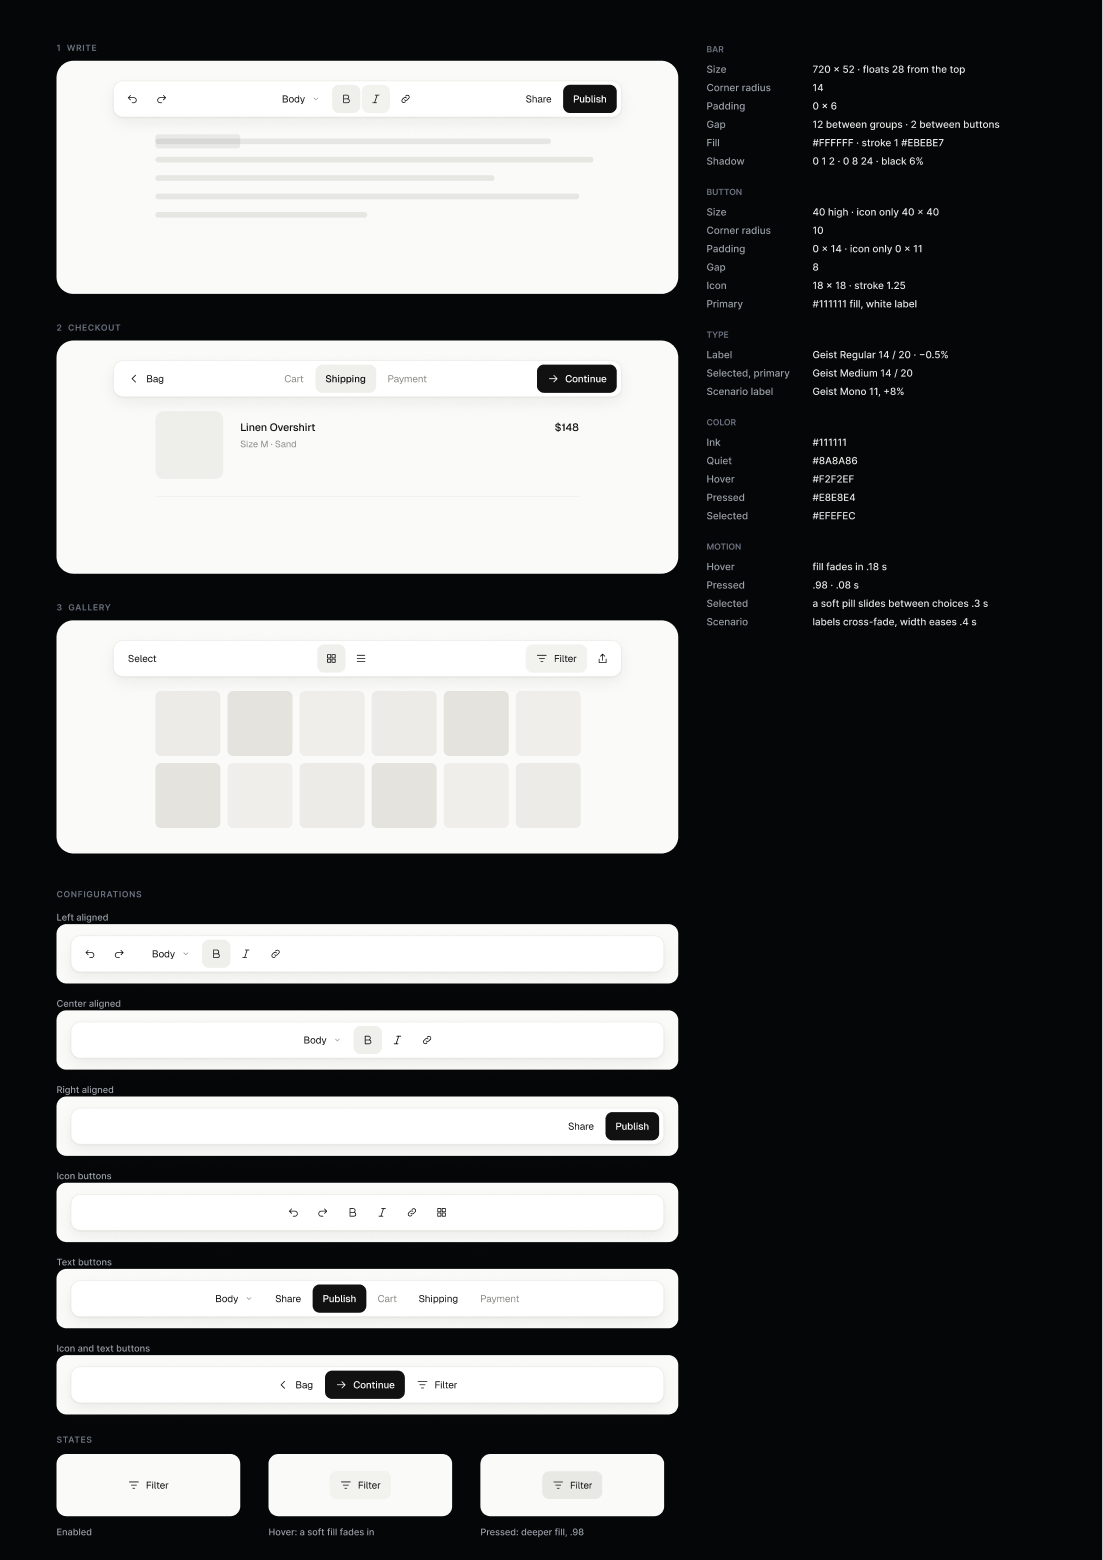
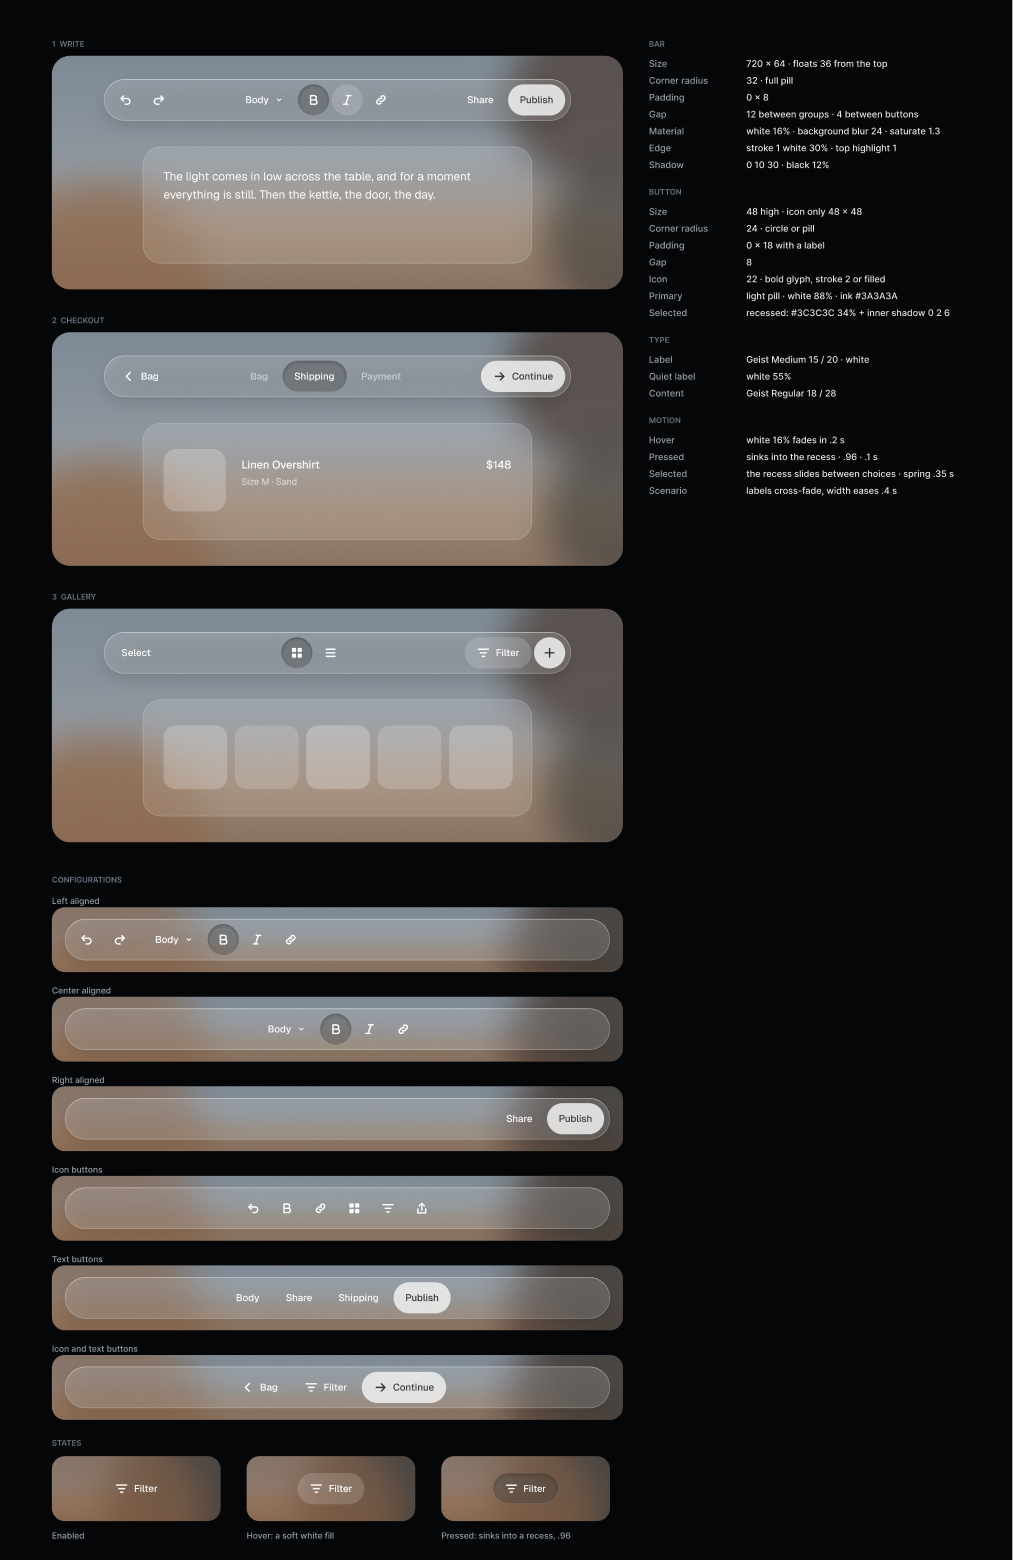
Toolbars: Clear moves to a frosted glass language

diff --git a/Toolbars/src/styles.css b/Toolbars/src/styles.css
@@ -77,57 +77,66 @@ main { max-width: 1040px; margin: 0 auto; padding: 48px 16px 80px; overflow-x: c
 .cm-dpad .glyph:last-of-type { margin-right: 4px; }
 
 /* ================= ELEGANT · Clear =================
-   bar 720 × 52, radius 14, padding 0 6, white + stroke 1 #EBEBE7 + shadow 0 1 2 / 0 8 24 black 6% · groups 12 apart, buttons 2
-   button 40 high (icon only 40 × 40), radius 10, padding 0 14, gap 8 · icon 18 stroke 1.25 · Geist 400 14/20 −0.5%, selected and primary 500 */
+   bar 720 × 64, radius 32, padding 0 8, white 16% + blur 24 saturate 1.3, stroke 1 white 30%, top highlight 1, shadow 0 10 30 black 12%
+   button 48 high (icon only 48 × 48), radius 24, padding 0 18, gap 8 · icon 22 bold (stroke 2 or filled) · Geist 500 15/20 white
+   selected: a recess, #3C3C3C 34% + inner shadow 0 2 6 · primary: white 88% pill, ink #3A3A3A */
 .cl { --ink: #111; --quiet: #8a8a86; display: flex; flex-direction: column; gap: 14px; }
 .cl-tabs { position: relative; display: flex; gap: 22px; font: 400 11px/16px "Geist Mono", ui-monospace, monospace; letter-spacing: .08em; text-transform: uppercase; }
 .cl-tabs button { border: 0; background: none; padding: 0 0 8px; color: var(--quiet); font: inherit; letter-spacing: inherit; text-transform: inherit; cursor: pointer; transition: color .3s; }
 .cl-tabs button.on, .cl-tabs button:hover { color: var(--ink); }
 .cl-tab-line { position: absolute; left: 0; bottom: 0; height: 1px; background: var(--ink); transition: transform .4s cubic-bezier(.2,.8,.2,1), width .4s cubic-bezier(.2,.8,.2,1); }
-.cl-field { display: flex; flex-direction: column; align-items: center; gap: 36px; min-height: 360px; padding: 28px 24px 40px; border-radius: 24px; background: #fafaf8; }
-.cl-bar { width: min(720px, 100%); height: 52px; padding: 0 6px; gap: 12px; border-radius: 14px; background: #fff; color: var(--ink); box-shadow: inset 0 0 0 1px #ebebe7, 0 1px 2px rgba(0,0,0,.06), 0 8px 24px rgba(0,0,0,.06); }
-.cl .tb-group { gap: 2px; }
-.cl-btn { z-index: 1; height: 40px; min-width: 40px; padding: 0 11px; gap: 8px; border-radius: 10px; font: 400 14px/20px Geist, Inter, sans-serif; letter-spacing: -0.005em; transition: background-color .18s, color .18s, transform .08s; }
-.cl-btn.has-label { padding: 0 14px; }
-.cl-btn .tb-ic { width: 18px; height: 18px; }
-.cl-btn:hover, .cl-btn.is-hot { background: #f2f2ef; }
-.cl-btn:active { background: #e8e8e4; transform: scale(.98); }
-.cl-btn:focus-visible { outline: 1px solid var(--ink); outline-offset: 2px; }
-.cl-btn.is-sel { background: #efefec; font-weight: 500; }
-.cl-btn.is-excl { font-weight: 500; background: transparent; }
-.cl-btn.is-dim { color: var(--quiet); }
-.cl-btn.is-prim { background: var(--ink); color: #fff; font-weight: 500; }
-.cl-btn.is-prim:hover, .cl-btn.is-prim.is-hot { background: #2a2a2a; }
-.cl-btn.is-prim:active { background: #000; }
-.cl-dd { display: grid; width: 14px; height: 14px; color: var(--quiet); }
-.cl-pill { position: absolute; left: 0; top: 0; border-radius: 10px; background: #efefec; transition: transform .3s cubic-bezier(.2,.8,.2,1), width .3s cubic-bezier(.2,.8,.2,1); }
-.cl-view { width: min(600px, 100%); animation: cl-in .4s ease both; }
+/* the ground: an out-of-focus photo, drawn with light only */
+.cl-field { position: relative; isolation: isolate; display: flex; flex-direction: column; align-items: center; gap: 40px; min-height: 420px; padding: 36px 24px 48px; border-radius: 28px; overflow: hidden;
+  background: linear-gradient(180deg, #7d8a96 0%, #8f969e 45%, #9a8572 75%, #8a7362 100%); }
+.cl-field::before, .cl-field::after { content: ''; position: absolute; z-index: -1; border-radius: 50%; filter: blur(50px); }
+.cl-field::before { right: -90px; top: -40px; width: 280px; height: 360px; background: #4a3a32; opacity: .75; }
+.cl-field::after { left: -80px; bottom: -120px; width: 380px; height: 260px; background: #8a6448; opacity: .7; }
+.cl-bar { width: min(720px, 100%); height: 64px; padding: 0 8px; gap: 12px; border-radius: 32px; color: #fff;
+  background: rgba(255,255,255,.16); -webkit-backdrop-filter: blur(24px) saturate(1.3); backdrop-filter: blur(24px) saturate(1.3);
+  box-shadow: inset 0 0 0 1px rgba(255,255,255,.3), inset 0 1px 0 rgba(255,255,255,.35), 0 10px 30px rgba(0,0,0,.12); }
+.cl .tb-group { gap: 4px; }
+.cl-btn { z-index: 1; height: 48px; min-width: 48px; padding: 0; gap: 8px; border-radius: 24px; color: #fff; font: 500 15px/20px Geist, Inter, sans-serif; letter-spacing: -0.005em; transition: background-color .2s, box-shadow .2s, transform .1s, color .2s; }
+.cl-btn.has-label { padding: 0 18px; }
+.cl-btn .tb-ic { width: 22px; height: 22px; }
+.cl-btn:hover, .cl-btn.is-hot { background: rgba(255,255,255,.16); }
+.recess, .cl-btn.is-sel, .cl-btn:active, .cl-pill { background: rgba(60,60,60,.34); box-shadow: inset 0 2px 6px rgba(0,0,0,.28), inset 0 -1px 0 rgba(255,255,255,.14); }
+.cl-btn:active { transform: scale(.96); }
+.cl-btn:focus-visible { outline: 2px solid rgba(255,255,255,.9); outline-offset: 2px; }
+.cl-btn.is-excl { background: transparent; box-shadow: none; }
+.cl-btn.is-dim { color: rgba(255,255,255,.55); }
+.cl-btn.is-prim { background: rgba(236,236,236,.88); color: #3a3a3a; box-shadow: 0 1px 2px rgba(0,0,0,.12); }
+.cl-btn.is-prim:hover, .cl-btn.is-prim.is-hot { background: rgba(250,250,250,.96); }
+.cl-btn.is-prim:active { background: rgba(214,214,214,.92); box-shadow: inset 0 2px 5px rgba(0,0,0,.18); }
+.cl-dd { display: grid; width: 14px; height: 14px; color: rgba(255,255,255,.7); }
+.cl-pill { position: absolute; left: 0; top: 0; border-radius: 24px; transition: transform .35s cubic-bezier(.3,1.25,.5,1), width .35s cubic-bezier(.3,1.25,.5,1); }
+/* content sits on the same glass */
+.cl-view { width: min(600px, 100%); padding: 28px 32px; border-radius: 28px; color: #fff; background: rgba(255,255,255,.12); -webkit-backdrop-filter: blur(24px); backdrop-filter: blur(24px); box-shadow: inset 0 0 0 1px rgba(255,255,255,.22); animation: cl-in .4s ease both; }
 @keyframes cl-in { from { opacity: 0; transform: translateY(6px); } }
-.cl-doc { margin: 0; color: #2a2a28; font: 400 17px/28px Geist, Inter, sans-serif; letter-spacing: -0.01em; transition: font-size .3s; }
-.cl-doc.s-1 { font: 500 26px/34px Geist, Inter, sans-serif; letter-spacing: -0.03em; color: var(--ink); }
-.cl-doc.s-2 { padding-left: 18px; box-shadow: inset 1px 0 0 var(--ink); font-style: italic; color: #4a4a47; }
-.cl-doc .b { font-weight: 600; color: var(--ink); }
+.cl-doc { margin: 0; font: 400 18px/28px Geist, Inter, sans-serif; letter-spacing: -0.01em; color: rgba(255,255,255,.92); }
+.cl-doc.s-1 { font: 500 26px/34px Geist, Inter, sans-serif; letter-spacing: -0.03em; color: #fff; }
+.cl-doc.s-2 { padding-left: 18px; box-shadow: inset 2px 0 0 rgba(255,255,255,.8); font-style: italic; }
+.cl-doc .b { font-weight: 600; color: #fff; }
 .cl-doc .i { font-style: italic; }
 .cl-doc .a { text-decoration: underline; text-underline-offset: 3px; text-decoration-thickness: 1px; }
-.cl-doc span { transition: color .2s; }
-.cl-order { display: flex; flex-direction: column; gap: 22px; }
-.cl-item { display: flex; align-items: center; gap: 18px; padding-bottom: 22px; box-shadow: 0 1px 0 #ebebe7; font: 400 13px/20px Geist, Inter, sans-serif; color: var(--quiet); }
-.cl-item i { width: 72px; height: 72px; border-radius: 12px; background: #eeeeea; }
+.cl-order { display: flex; flex-direction: column; gap: 18px; }
+.cl-item { display: flex; align-items: center; gap: 22px; padding-bottom: 18px; box-shadow: 0 1px 0 rgba(255,255,255,.22); font: 400 14px/20px Geist, Inter, sans-serif; color: rgba(255,255,255,.7); }
+.cl-item i { width: 72px; height: 72px; border-radius: 20px; background: rgba(255,255,255,.22); }
 .cl-item div { flex: 1; display: flex; flex-direction: column; }
-.cl-item b { font-weight: 500; font-size: 15px; color: var(--ink); }
-.cl-step { margin: 0; font: 400 15px/22px Geist, Inter, sans-serif; color: #2a2a28; animation: cl-in .35s ease both; }
+.cl-item b { font-weight: 500; font-size: 17px; line-height: 24px; color: #fff; }
+.cl-step { margin: 0; font: 400 15px/22px Geist, Inter, sans-serif; color: #fff; animation: cl-in .35s ease both; }
 .cl-photos { display: flex; flex-wrap: wrap; gap: 10px; }
-.cl-ph { position: relative; display: flex; align-items: center; gap: 12px; width: calc((100% - 50px) / 6); height: 88px; border-radius: 8px; background: var(--t); transition: width .45s cubic-bezier(.2,.8,.2,1), height .45s cubic-bezier(.2,.8,.2,1); overflow: hidden; }
-.cl-ph span { font: 400 12px/16px "Geist Mono", monospace; color: var(--quiet); opacity: 0; transition: opacity .3s; white-space: nowrap; }
-.cl-ph i { flex: none; width: 0; height: 100%; border-radius: 8px; background: rgba(0,0,0,.04); transition: width .45s cubic-bezier(.2,.8,.2,1); }
-.cl-photos.rows .cl-ph { width: 100%; height: 36px; background: transparent; box-shadow: inset 0 -1px 0 #ebebe7; border-radius: 0; }
-.cl-photos.rows .cl-ph i { width: 36px; background: var(--t); }
-.cl-photos.rows .cl-ph span { opacity: 1; }
+.cl-ph { position: relative; display: flex; align-items: center; gap: 12px; width: calc((100% - 50px) / 6); height: 82px; border-radius: 18px; background: rgba(255,255,255,var(--a, .2)); overflow: hidden;
+  transition: width .45s cubic-bezier(.2,.8,.2,1), height .45s cubic-bezier(.2,.8,.2,1), opacity .3s, border-radius .45s; animation: cl-in .35s ease both; }
+.cl-ph:nth-child(3n+1) { --a: .24; } .cl-ph:nth-child(3n+2) { --a: .16; }
+.cl-ph span { font: 400 12px/16px "Geist Mono", monospace; color: rgba(255,255,255,.8); opacity: 0; transition: opacity .3s; white-space: nowrap; }
+.cl-ph i { flex: none; width: 0; height: 100%; border-radius: 10px; background: rgba(255,255,255,.22); transition: width .45s cubic-bezier(.2,.8,.2,1); }
 .cl-photos.rows { row-gap: 0; }
+.cl-photos.rows .cl-ph { width: 100%; height: 40px; background: transparent; border-radius: 0; box-shadow: inset 0 -1px 0 rgba(255,255,255,.18); }
+.cl-photos.rows .cl-ph i { width: 40px; }
+.cl-photos.rows .cl-ph span { opacity: 1; }
 .cl-photos.rows .cl-ph:nth-child(n+7) { height: 0; opacity: 0; box-shadow: none; } /* the list shows the first six, so the stage keeps its height */
-.cl-ph { transition: width .45s cubic-bezier(.2,.8,.2,1), height .45s cubic-bezier(.2,.8,.2,1), opacity .3s; }
-.cl-photos.sel .cl-ph::after { content: ''; position: absolute; right: 8px; top: 8px; width: 14px; height: 14px; border-radius: 50%; box-shadow: inset 0 0 0 1px var(--ink); background: rgba(255,255,255,.7); }
-.cl-photos.rows.sel .cl-ph::after { top: 11px; }
+.cl-photos.sel .cl-ph::after { content: ''; position: absolute; right: 8px; top: 8px; width: 16px; height: 16px; border-radius: 50%; box-shadow: inset 0 0 0 1.5px #fff; background: rgba(255,255,255,.2); }
+.cl-photos.rows.sel .cl-ph::after { top: 12px; }
 
 @container set (max-width: 640px) {
   .tb-label.opt { display: none; }
@@ -143,12 +152,17 @@ main { max-width: 1040px; margin: 0 auto; padding: 48px 16px 80px; overflow-x: c
   .cm-ep { font-size: 18px; }
   .cm-cc { font-size: 13px; white-space: normal; width: 80%; text-align: center; }
   .cm-legend { justify-content: center; gap: 12px; flex-wrap: wrap; }
-  .cl-field { padding: 20px 12px 28px; }
+  .cl-field { padding: 24px 10px 32px; gap: 28px; }
+  .cl-view { padding: 20px; }
   .cl-bar { gap: 4px; }
   .cl .tb-group { gap: 0; }
   .cl-btn.has-label { padding: 0 10px; }
-  .cl-btn { min-width: 36px; padding: 0 9px; }
-  .cl-ph { width: calc((100% - 20px) / 3); height: 72px; }
+  .cl-bar { padding: 0 6px; height: 58px; }
+  .cl-btn { height: 44px; min-width: 40px; padding: 0; }
+  .cl-btn.has-label { padding: 0 12px; }
+  .cl-pill { border-radius: 22px; }
+  .cl-dd { display: none; }
+  .cl-ph { width: calc((100% - 20px) / 3); height: 64px; }
   .s-couch h2, .s-clear h2 { font-size: 32px; }
   .draft-ref { width: 88px; }
 }

diff --git a/Toolbars/src/App.jsx b/Toolbars/src/App.jsx
@@ -31,7 +31,7 @@ const IC = {
   edit: ['M4 16l3-.500 9-9-2.500-2.500-9 9z', 'M12 5l2.500 2.500'], share: ['M10 3v10', 'M6.500 6.500L10 3l3.500 3.500', 'M4.500 11v5.500h11V11'], trash: ['M4 6h12', 'M8 6V4h4v2', 'M5.500 6l1 10h7l1-10'],
   heart: ['M10 16s-6-3.500-6-8a3.200 3.200 0 0 1 6-1.500A3.200 3.200 0 0 1 16 8c0 4.500-6 8-6 8z'], undo: ['M7.500 11.500L4 8l3.500-3.500', 'M4 8h8.500a4 4 0 0 1 0 8H10'], redo: ['M12.500 11.500L16 8l-3.500-3.500', 'M16 8H7.500a4 4 0 0 0 0 8H10'],
   bold: ['M6 4h5a3 3 0 0 1 0 6H6z', 'M6 10h6a3 3 0 0 1 0 6H6z'], italic: ['M9 4h6', 'M5 16h6', 'M12 4l-4 12'], link: ['M8.500 11.500a3 3 0 0 0 4.200 0l2.500-2.500a3 3 0 0 0-4.200-4.200l-.800.800', 'M11.500 8.500a3 3 0 0 0-4.200 0L4.800 11a3 3 0 0 0 4.200 4.200l.800-.800'],
-  arrow: ['M4 10h12', 'M11 5l5 5-5 5'], grid: ['M4 4h5v5H4z', 'M11 4h5v5h-5z', 'M4 11h5v5H4z', 'M11 11h5v5h-5z'], rows: ['M4 5h12', 'M4 10h12', 'M4 15h12'], chev: ['M6 8l4 4 4-4'], check: ['M4.500 10.500l3.500 3.500L16 6'],
+  arrow: ['M4 10h12', 'M11 5l5 5-5 5'], plus: ['M10 4v12', 'M4 10h12'], grid: ['M4 4h5v5H4z', 'M11 4h5v5h-5z', 'M4 11h5v5H4z', 'M11 11h5v5h-5z'], rows: ['M4 5h12', 'M4 10h12', 'M4 15h12'], chev: ['M6 8l4 4 4-4'], check: ['M4.500 10.500l3.500 3.500L16 6'],
 }
 
 // measure where an element sits inside its bar, so one marker (ring or pill) can glide to it
@@ -242,8 +242,11 @@ function CouchSet({ auto, offset = 0 }) {
   )
 }
 
-/* ----- ELEGANT · Clear: one quiet bar for an editor, a checkout and a gallery. White, hairline, one ink; the only motion is a soft fill
-   that arrives under your pointer and a pill that slides between exclusive choices ----- */
+/* ----- ELEGANT · Clear: one bar of frosted glass for an editor, a checkout and a gallery, floating over a softly blurred photo.
+   Bold white glyphs; the chosen item sinks into a dark recess that slides between choices; the main action is a light solid pill ----- */
+const GRID_FILLED = (
+  <svg viewBox="0 0 20 20" fill="currentColor" aria-hidden="true"><path d="M3 4.500A1.500 1.500 0 0 1 4.500 3h3A1.500 1.500 0 0 1 9 4.500v3A1.500 1.500 0 0 1 7.500 9h-3A1.500 1.500 0 0 1 3 7.500zM11 4.500A1.500 1.500 0 0 1 12.500 3h3A1.500 1.500 0 0 1 17 4.500v3A1.500 1.500 0 0 1 15.500 9h-3A1.500 1.500 0 0 1 11 7.500zM3 12.500A1.500 1.500 0 0 1 4.500 11h3A1.500 1.500 0 0 1 9 12.500v3A1.500 1.500 0 0 1 7.500 17h-3A1.500 1.500 0 0 1 3 15.500zM11 12.500a1.500 1.500 0 0 1 1.500-1.500h3a1.500 1.500 0 0 1 1.500 1.500v3a1.500 1.500 0 0 1-1.500 1.500h-3a1.500 1.500 0 0 1-1.500-1.500z" /></svg>
+)
 const CLEAR = ['Write', 'Checkout', 'Gallery']
 const STYLES = ['Body', 'Heading', 'Quote']
 const STEPS = ['Bag', 'Shipping', 'Payment']
@@ -256,13 +259,13 @@ function ClearSet({ auto, offset = 0 }) {
   const [si, setSi] = useState(offset % 3)
   const [w, setW] = useState({ style: 0, b: true, i: false, link: false, pub: false })
   const [step, setStep] = useState(1)
-  const [g, setG] = useState({ rows: false, few: false, sel: false })
+  const [g, setG] = useState({ rows: false, few: false, sel: false, extra: 0 })
   const [hot, setHot] = useState(null)
 
   const groups = [
     [[{ id: 'undo', i: 'undo' }, { id: 'redo', i: 'redo', opt: true }], [{ id: 'style', t: STYLES[w.style], dd: true }, { id: 'b', i: 'bold', sel: w.b }, { id: 'i', i: 'italic', sel: w.i }, { id: 'link', i: 'link', sel: w.link }], [{ id: 'share', t: 'Share', opt: true }, { id: 'pub', t: w.pub ? 'Published' : 'Publish', i: w.pub ? 'check' : null, prim: true }]],
     [[{ id: 'back', i: 'back', t: 'Bag', lab: true }], STEPS.map((s, i) => ({ id: 's' + i, t: s, excl: true, sel: step === i, dim: step !== i, opt: step !== i })), [{ id: 'go', t: step === 2 ? 'Pay $148' : 'Continue', i: 'arrow', prim: true }]],
-    [[{ id: 'select', t: g.sel ? 'Cancel' : 'Select' }], [{ id: 'grid', i: 'grid', excl: true, sel: !g.rows }, { id: 'rows', i: 'rows', excl: true, sel: g.rows }], [{ id: 'filter', i: 'filter', t: g.few ? 'Liked' : 'Filter', lab: true, sel: g.few }, { id: 'share', i: 'share' }]],
+    [[{ id: 'select', t: g.sel ? 'Cancel' : 'Select' }], [{ id: 'grid', i: 'grid', excl: true, sel: !g.rows }, { id: 'rows', i: 'rows', excl: true, sel: g.rows }], [{ id: 'filter', i: 'filter', t: g.few ? 'Liked' : 'Filter', lab: true, sel: g.few }, { id: 'add', i: 'plus', prim: true }]],
   ][si].map((grp) => grp.filter((b) => !(narrow && b.opt)))
 
   const press = (id) => {
@@ -282,6 +285,7 @@ function ClearSet({ auto, offset = 0 }) {
       else if (id === 'rows') setG((v) => ({ ...v, rows: true }))
       else if (id === 'filter') setG((v) => ({ ...v, few: !v.few }))
       else if (id === 'select') setG((v) => ({ ...v, sel: !v.sel }))
+      else if (id === 'add') setG((v) => ({ ...v, extra: (v.extra + 1) % 4 }))
     }
   }
 
@@ -302,7 +306,7 @@ function ClearSet({ auto, offset = 0 }) {
   const selId = groups.flat().find((b) => b.excl && b.sel)?.id
   const pill = useMarker(barRef, selId ? `[data-id="${selId}"]` : null, [selId, si, narrow])
   const tab = useMarker(tabsRef, `[data-i="${si}"]`, [si, narrow])
-  const n = g.few ? 5 : 12
+  const n = g.few ? 5 : 12 + g.extra
 
   return (
     <div className="cl" ref={stage}>
@@ -319,9 +323,9 @@ function ClearSet({ auto, offset = 0 }) {
                 <button key={b.id} type="button" data-id={b.id} aria-label={b.t ? undefined : b.id} aria-pressed={b.sel != null && !b.excl ? !!b.sel : undefined} aria-current={b.excl && b.sel ? 'true' : undefined}
                   className={`tb-btn cl-btn ${b.t ? 'has-label' : ''} ${b.prim ? 'is-prim' : ''} ${b.sel && !b.excl ? 'is-sel' : ''} ${b.excl && b.sel ? 'is-excl' : ''} ${b.dim ? 'is-dim' : ''} ${hot === b.id ? 'is-hot' : ''}`}
                   onClick={() => press(b.id)}>
-                  {b.i && <span className="tb-ic">{li(IC[b.i], 1.25)}</span>}
+                  {b.i && <span className="tb-ic">{b.i === 'grid' ? GRID_FILLED : li(IC[b.i], 2)}</span>}
                   {b.t && <span className={`tb-label ${b.lab ? 'opt' : ''}`}>{b.t}</span>}
-                  {b.dd && <span className="cl-dd">{li(IC.chev, 1.25)}</span>}
+                  {b.dd && <span className="cl-dd">{li(IC.chev, 2)}</span>}
                 </button>
               ))}
             </div>
